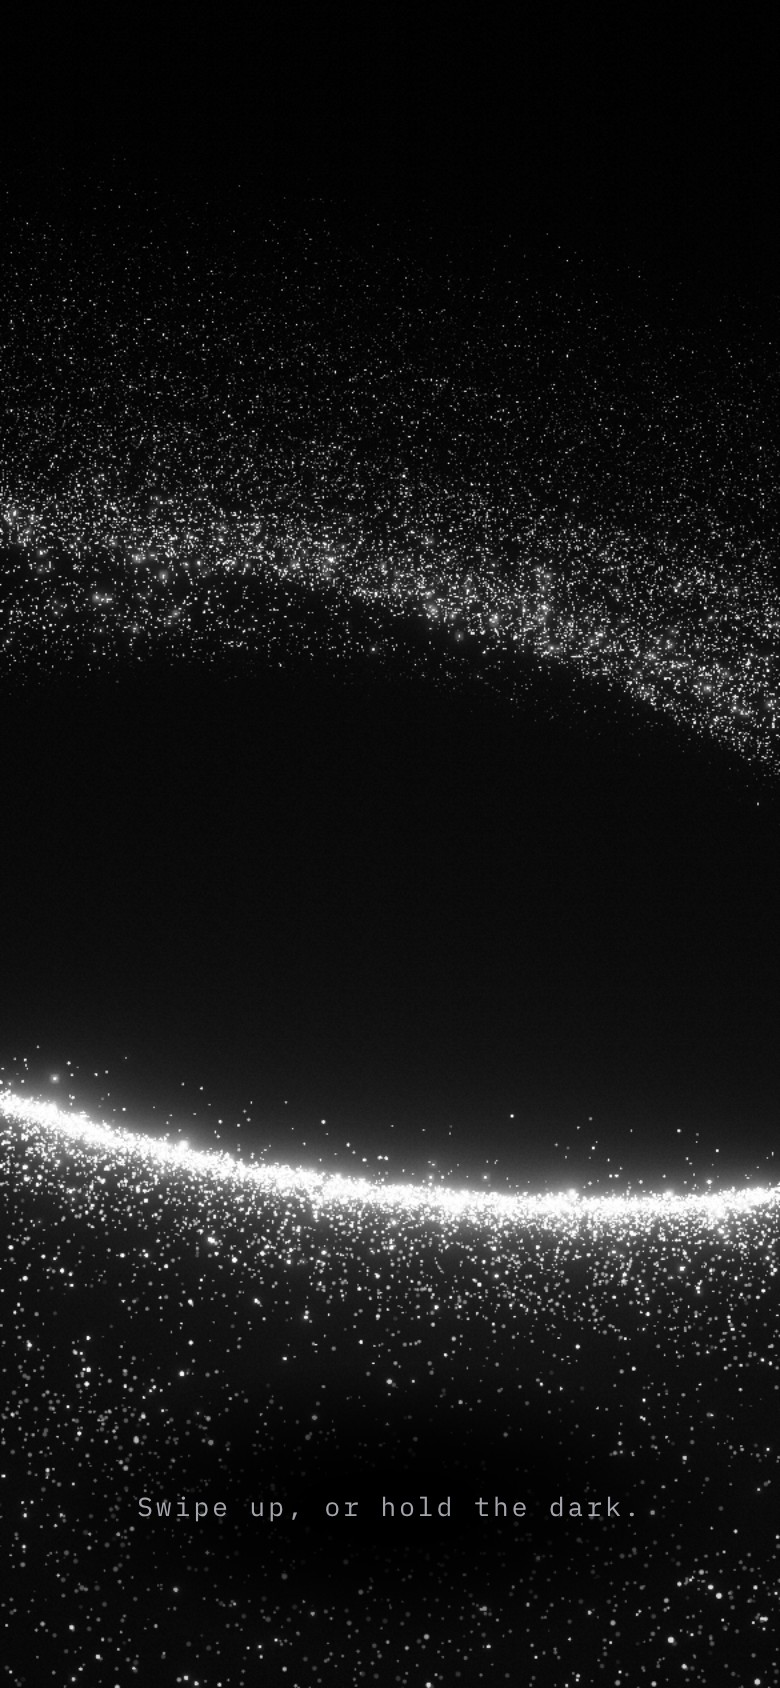
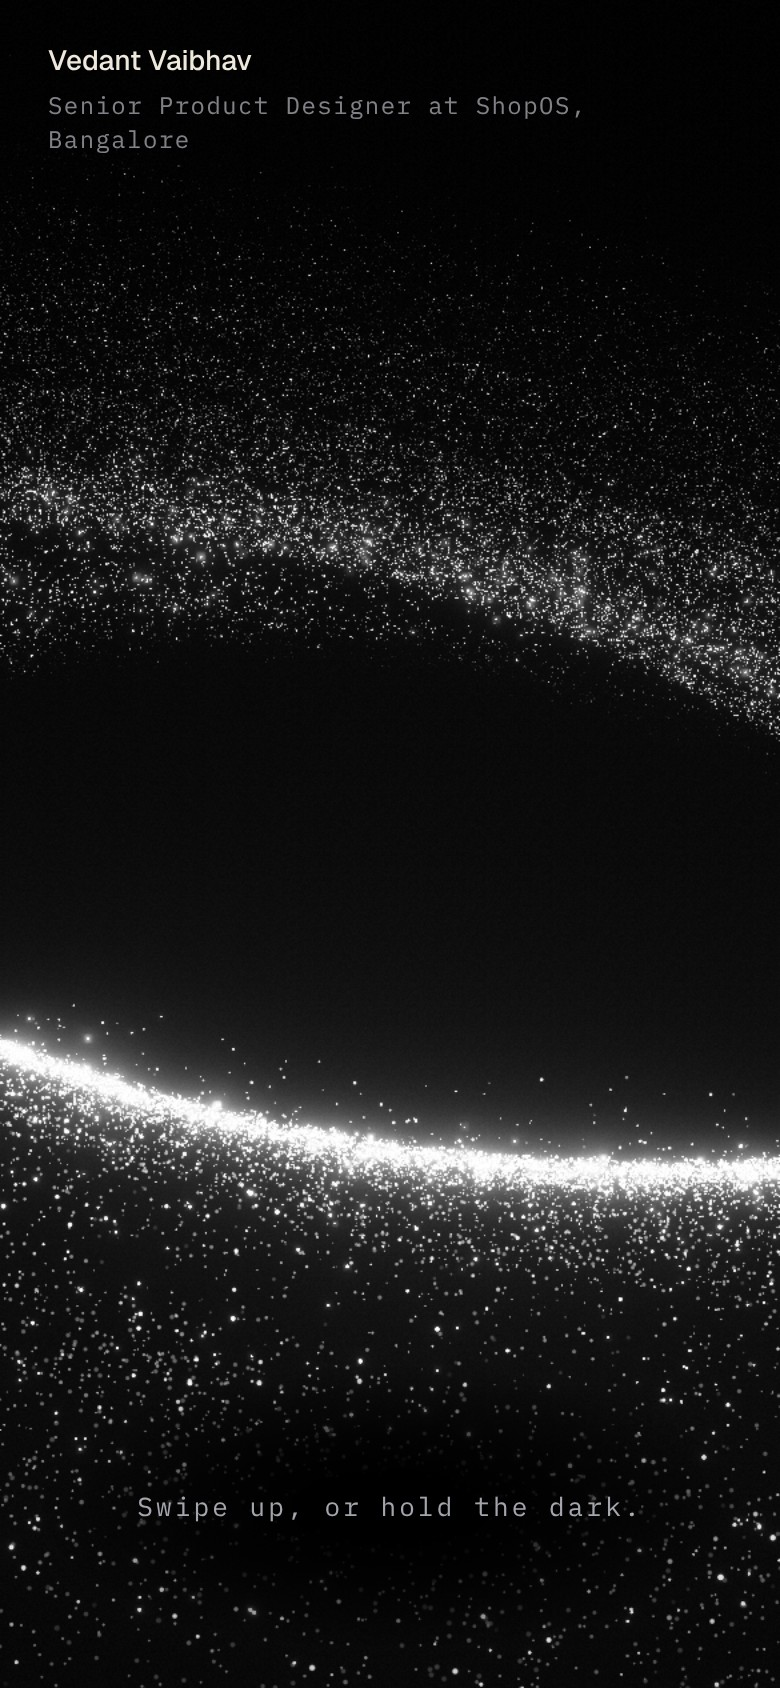
Portal: quicker drain, hole a touch right, name in the top left
The drain takes 3.3 s, down from 4.2 s. The hole sits slightly right
of and above centre: the disc leans and is heavier at the lower left,
which left the top right empty. The name and role go in the top left,
with the name exactly where the site nav puts it so it holds still
when the site comes up.

Claude-Session: https://claude.ai/code/session_01FgUW3BErGY7JJoFogNdhyC

diff --git a/src/portal/config.ts b/src/portal/config.ts
@@ -15,9 +15,11 @@ export const portalConfig = {
     innerRadius: 15,
     outerRadius: 85,
     // Where the black of the hole sits: share of the half width and half height from the
-    // centre of the screen. 0 and 0 is dead centre. Then how far away it is.
-    x: 0,
-    y: 0,
+    // centre of the screen. 0 and 0 is dead centre. It sits a touch right and up, because the
+    // disc leans and is heavier at the lower left, which leaves the top right empty otherwise.
+    // Then how far away it is.
+    x: 0.09,
+    y: 0.03,
     depth: 54,
     // How far above the sheet the camera looks from, and how much the horizon leans. Degrees.
     elevation: 24,
@@ -49,7 +51,7 @@ export const portalConfig = {
     // bend: it holds its shape and thins out. A scroll does it at the centre of
     // the hole. A press and hold inside the hole does it wherever the hold is,
     // for as long as it is held; let go early and the grains come back.
-    ms: 4200,
+    ms: 3300,
     // How much of that time one grain's own trip takes. The rest is the spread
     // of when they leave. Smaller means a longer, thinner stream.
     flight: 0.3,

diff --git a/src/components/portal/portal-entry.tsx b/src/components/portal/portal-entry.tsx
@@ -197,6 +197,14 @@ export function PortalEntry() {
             className="portal-canvas absolute inset-0 size-full touch-none"
             data-ready={ready || undefined}
           />
+          {/* [PLACEHOLDER] wording, for Vedant to confirm. The name sits exactly where the
+              site's own nav puts it, so it holds still when the site comes up. */}
+          <div className="pointer-events-none absolute left-0 top-0 px-6 py-5 text-sm md:px-10">
+            <p className="font-medium text-[#efe9dd]">Vedant Vaibhav</p>
+            <p className="mt-1 font-mono text-[12px] tracking-[0.06em] text-[#e8ebf5]/55">
+              Senior Product Designer at ShopOS, Bangalore
+            </p>
+          </div>
           {/* [PLACEHOLDER] wording, for Vedant to confirm. */}
           <p
             className="portal-prompt pointer-events-none absolute inset-x-0 bottom-[9.5svh] isolate text-center font-mono text-[13px] tracking-[0.12em] text-[#e8ebf5]/70"

diff --git a/CLAUDE.md b/CLAUDE.md
@@ -62,7 +62,7 @@ The first screen is a WebGL entry ritual: draw a circle, it becomes a ring of li
 - How the wormhole must be made: as a dense point cloud, the way Shopify Editions Spring '26 builds its hero. About a million tiny points of nearly equal brightness; the picture comes from how many land in each place. Vedant rejected two earlier versions as not realistic: sparse bright dots on a flat disc, and anything that fakes grain on a surface. His references are monochrome particle fields around a dark void; match the feel, do not copy any one image.
 - Vedant had the background stars and haze removed: the frame is pure black with only the wormhole. He took them for a stock image of space.
 - How the drain must look: each grain leaves on its own, at its own moment, and flies to the point, while the wormhole holds its shape and thins out. Vedant rejected the first version, where every grain followed one smooth rule, because it read as the whole screen bending. Never move the picture as one sheet.
-- The black of the hole sits at the centre of the screen (Vedant's call).
+- The black of the hole sits a touch right of the centre of the screen, with text in the top left corner to balance the empty top right (Vedant's call). The top left wording is a placeholder: his name, placed exactly where the site nav puts it, and his role.
 - Current way in, as Vedant specified it: a scroll draws every grain into the centre of the hole, where it vanishes. A press and hold inside the hole does the same wherever the hold is; a hold outside the hole does nothing; letting go early brings the grains back. The frame is left black and the site appears on that same black, so black is common to both sides. No camera move, no colour. Earlier versions, all removed: drawing a circle with a chromatic ring (last at abd0eef), and a camera fall into the hole (596f981). The prompt wording ("Scroll, or hold the dark.") is a placeholder for Vedant to confirm.
 - Shader rules learned the hard way (the scene drew only a strip on Vedant's Mac while looking fine in headless Chromium): never call `pow()` with a base that can be negative, square by multiplying; never call `smoothstep()` with its edges reversed, write `1. - smoothstep(low, high, x)`. Both are undefined in GLSL, pass in software rendering, and produce invalid pixels on real GPUs that the bloom then smears across the frame. Headless checks cannot catch this class of bug.
 - Smoothness is a requirement, measured against Shopify Editions: the point cloud is built once in a Web Worker (`wormhole-cloud.ts`) and fades in, and `adapt()` in `scene.ts` draws a smaller share of it when frames run long.
